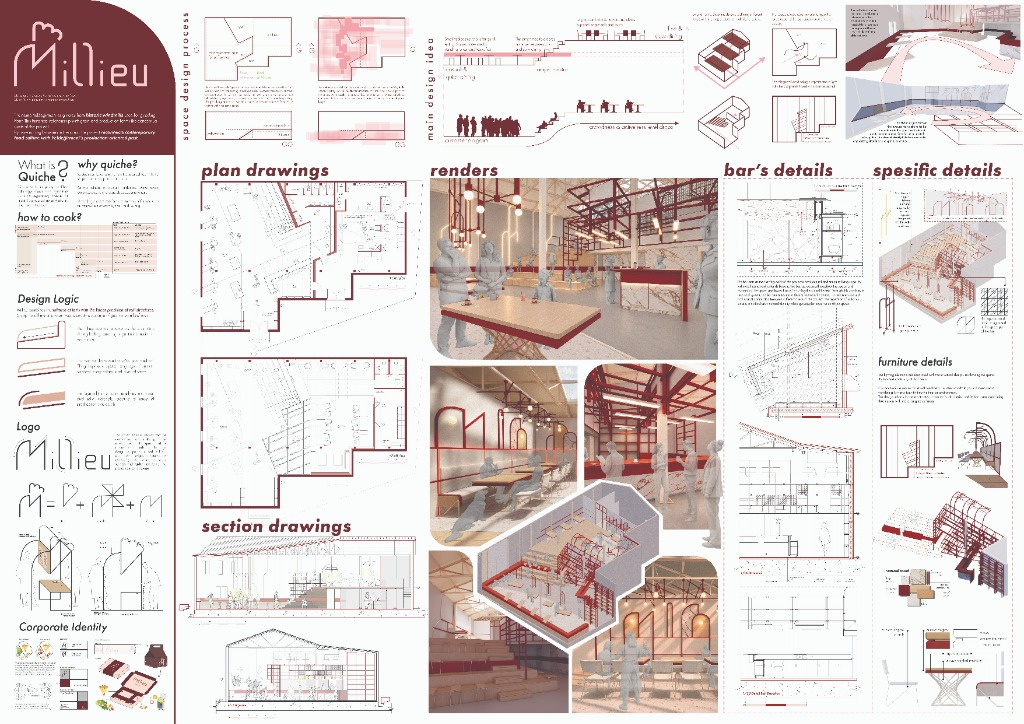
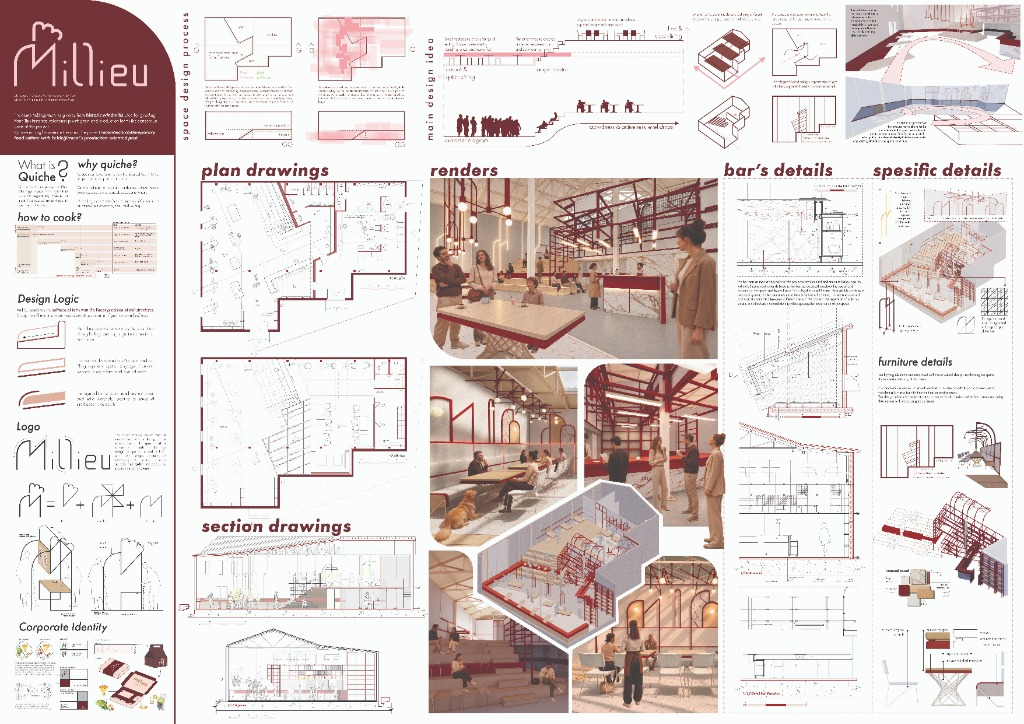
Replace Millieu main presentation board with final version

Changed region(s): [[0.4062, 0.2431, 0.7188, 1.0]]

diff --git a/projects/millieu/index.html b/projects/millieu/index.html
@@ -690,7 +690,7 @@
 
                 <div class="millieu-master-board-frame" style="border: 1px solid #e4e4e0; background: #ffffff;">
 
-                    <img src="./assets/millieu-main-board.jpg" alt="Millieu Main Presentation Board — Culinary Concept, Logo Logic, Corporate Identity, Plans, Sections, Interior Renders, Bar &amp; Furniture Details" loading="lazy" decoding="async">
+                    <img src="./assets/millieu-main-board.jpg?v=2" alt="Millieu Main Presentation Board — Culinary Concept, Logo Logic, Corporate Identity, Plans, Sections, Interior Renders, Bar &amp; Furniture Details" loading="lazy" decoding="async">
 
                 </div>
 
@@ -781,7 +781,7 @@
             {
                 num: 'MASTER BOARD',
                 title: 'MILLIEU — MAIN PRESENTATION BOARD',
-                src: './assets/millieu-main-board.jpg',
+                src: './assets/millieu-main-board.jpg?v=2',
                 filename: 'Millieu_Main_Presentation_Board.jpg',
                 caption: 'Millieu — Main Presentation Board: Concept, Corporate Identity, Plans, Sections, Interior Renders, Bar & Furniture Details'
             }
